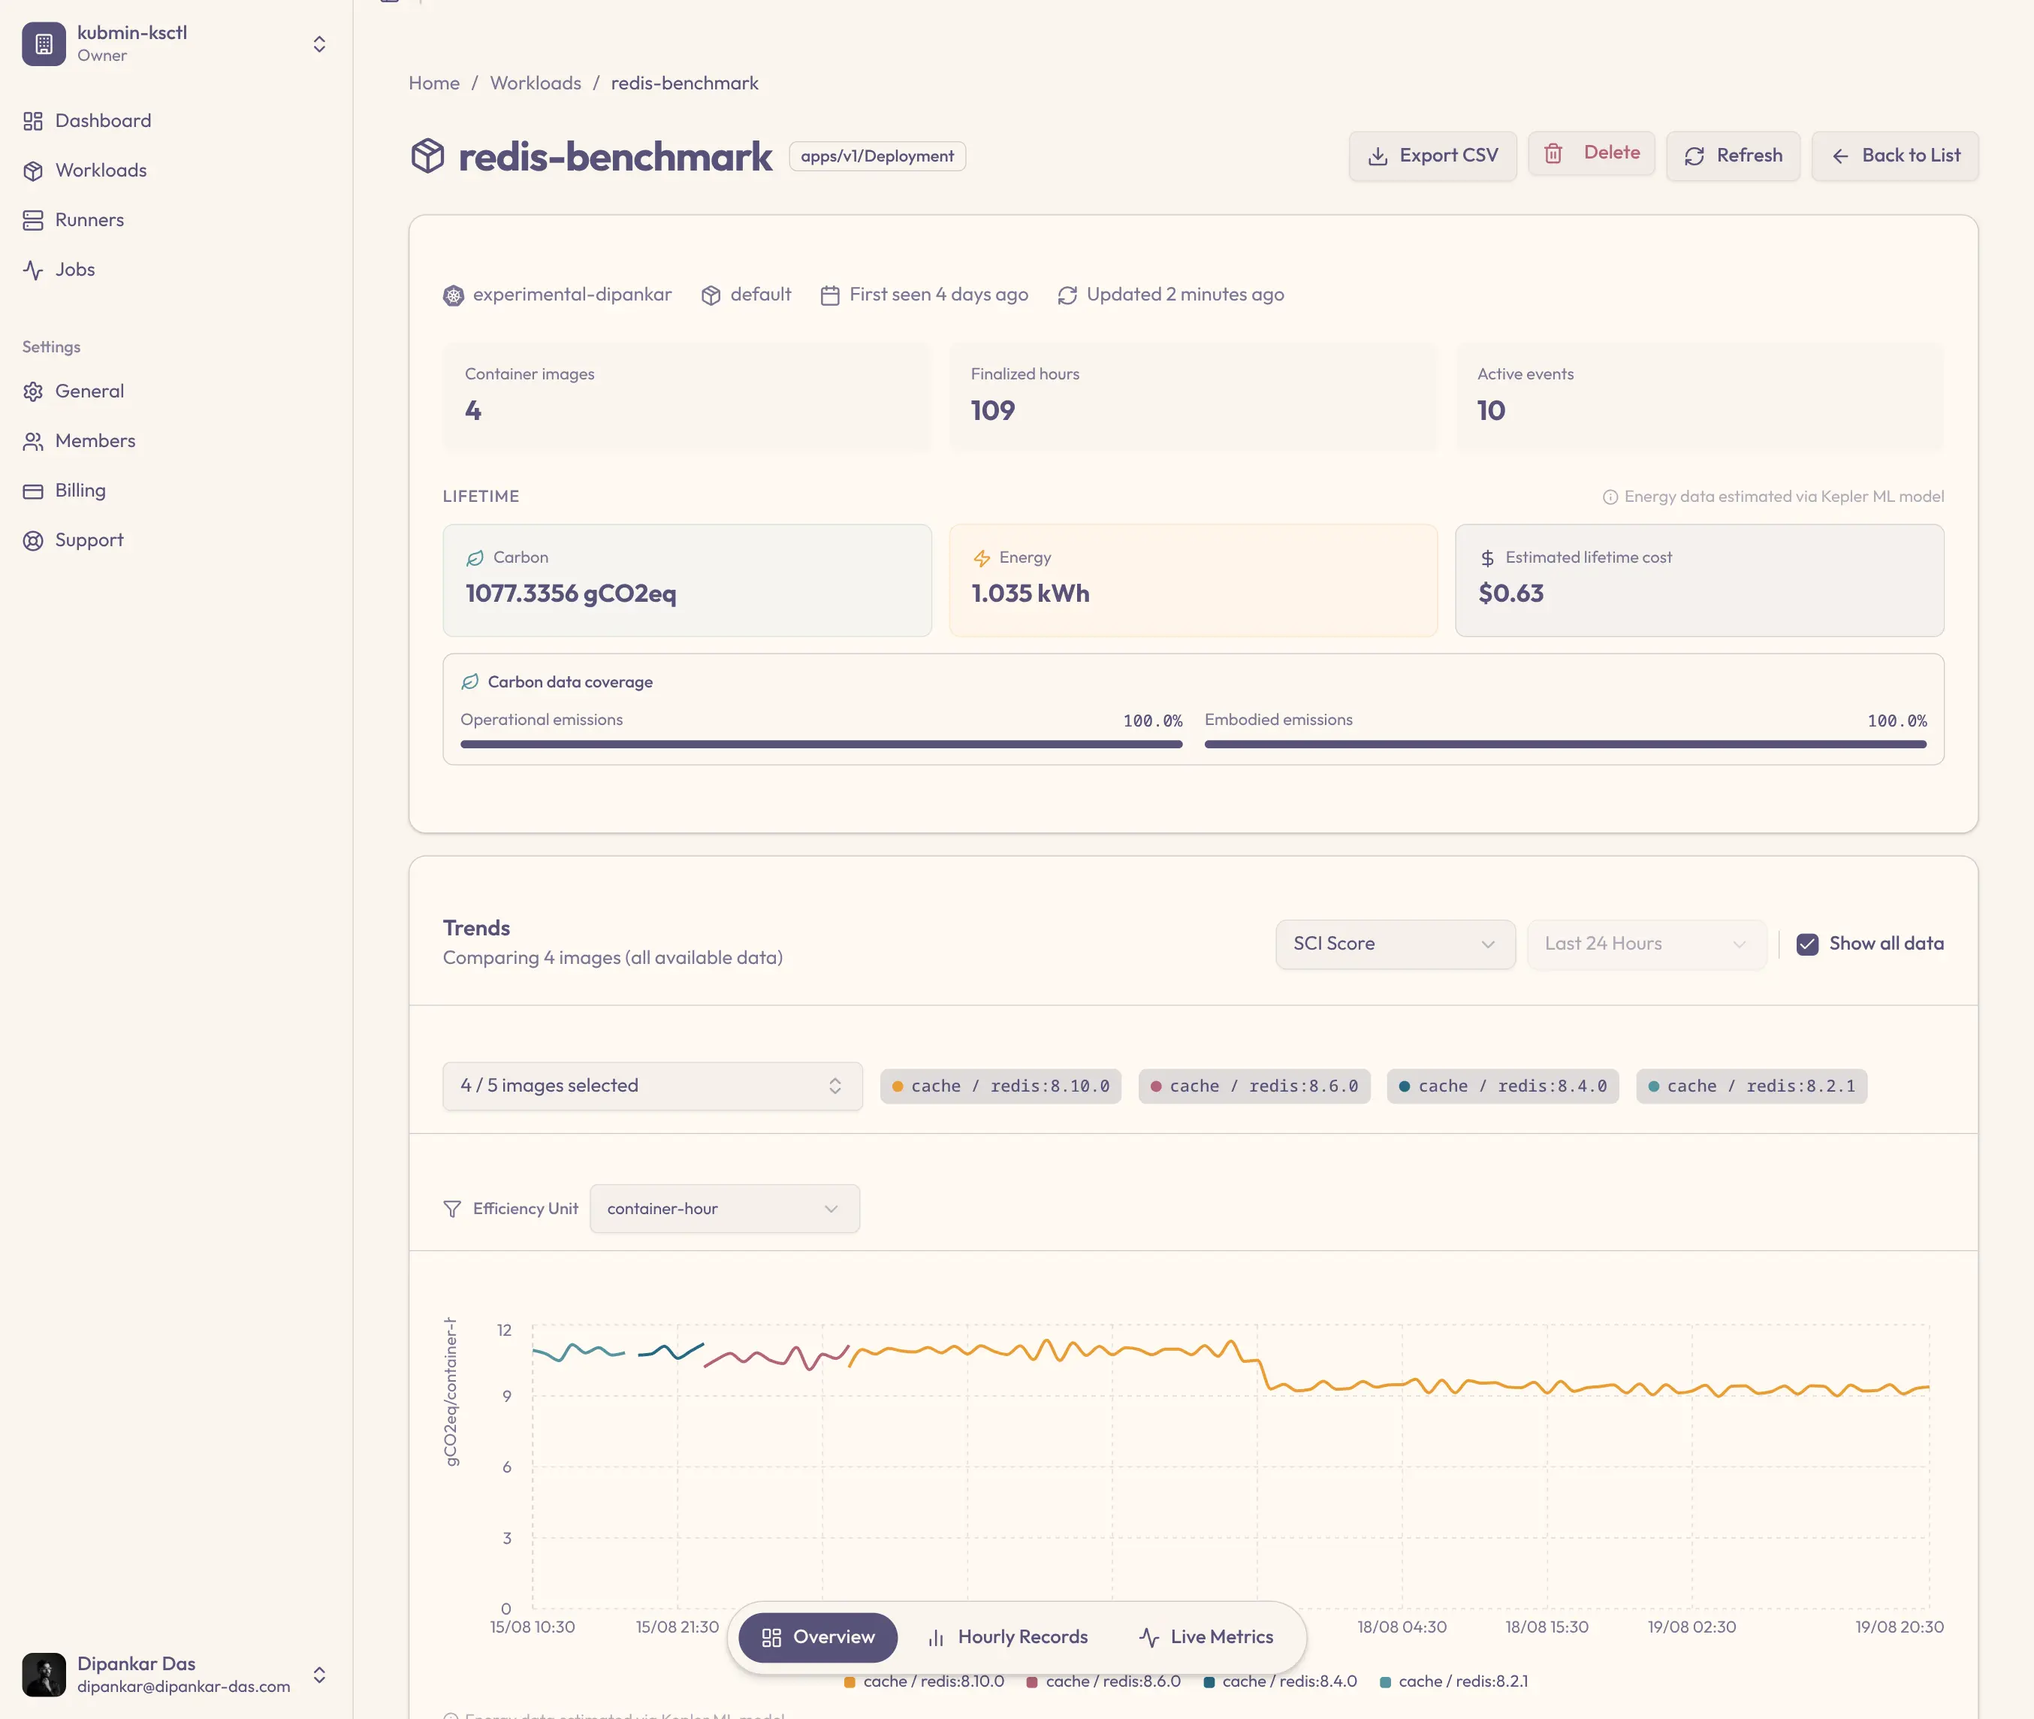
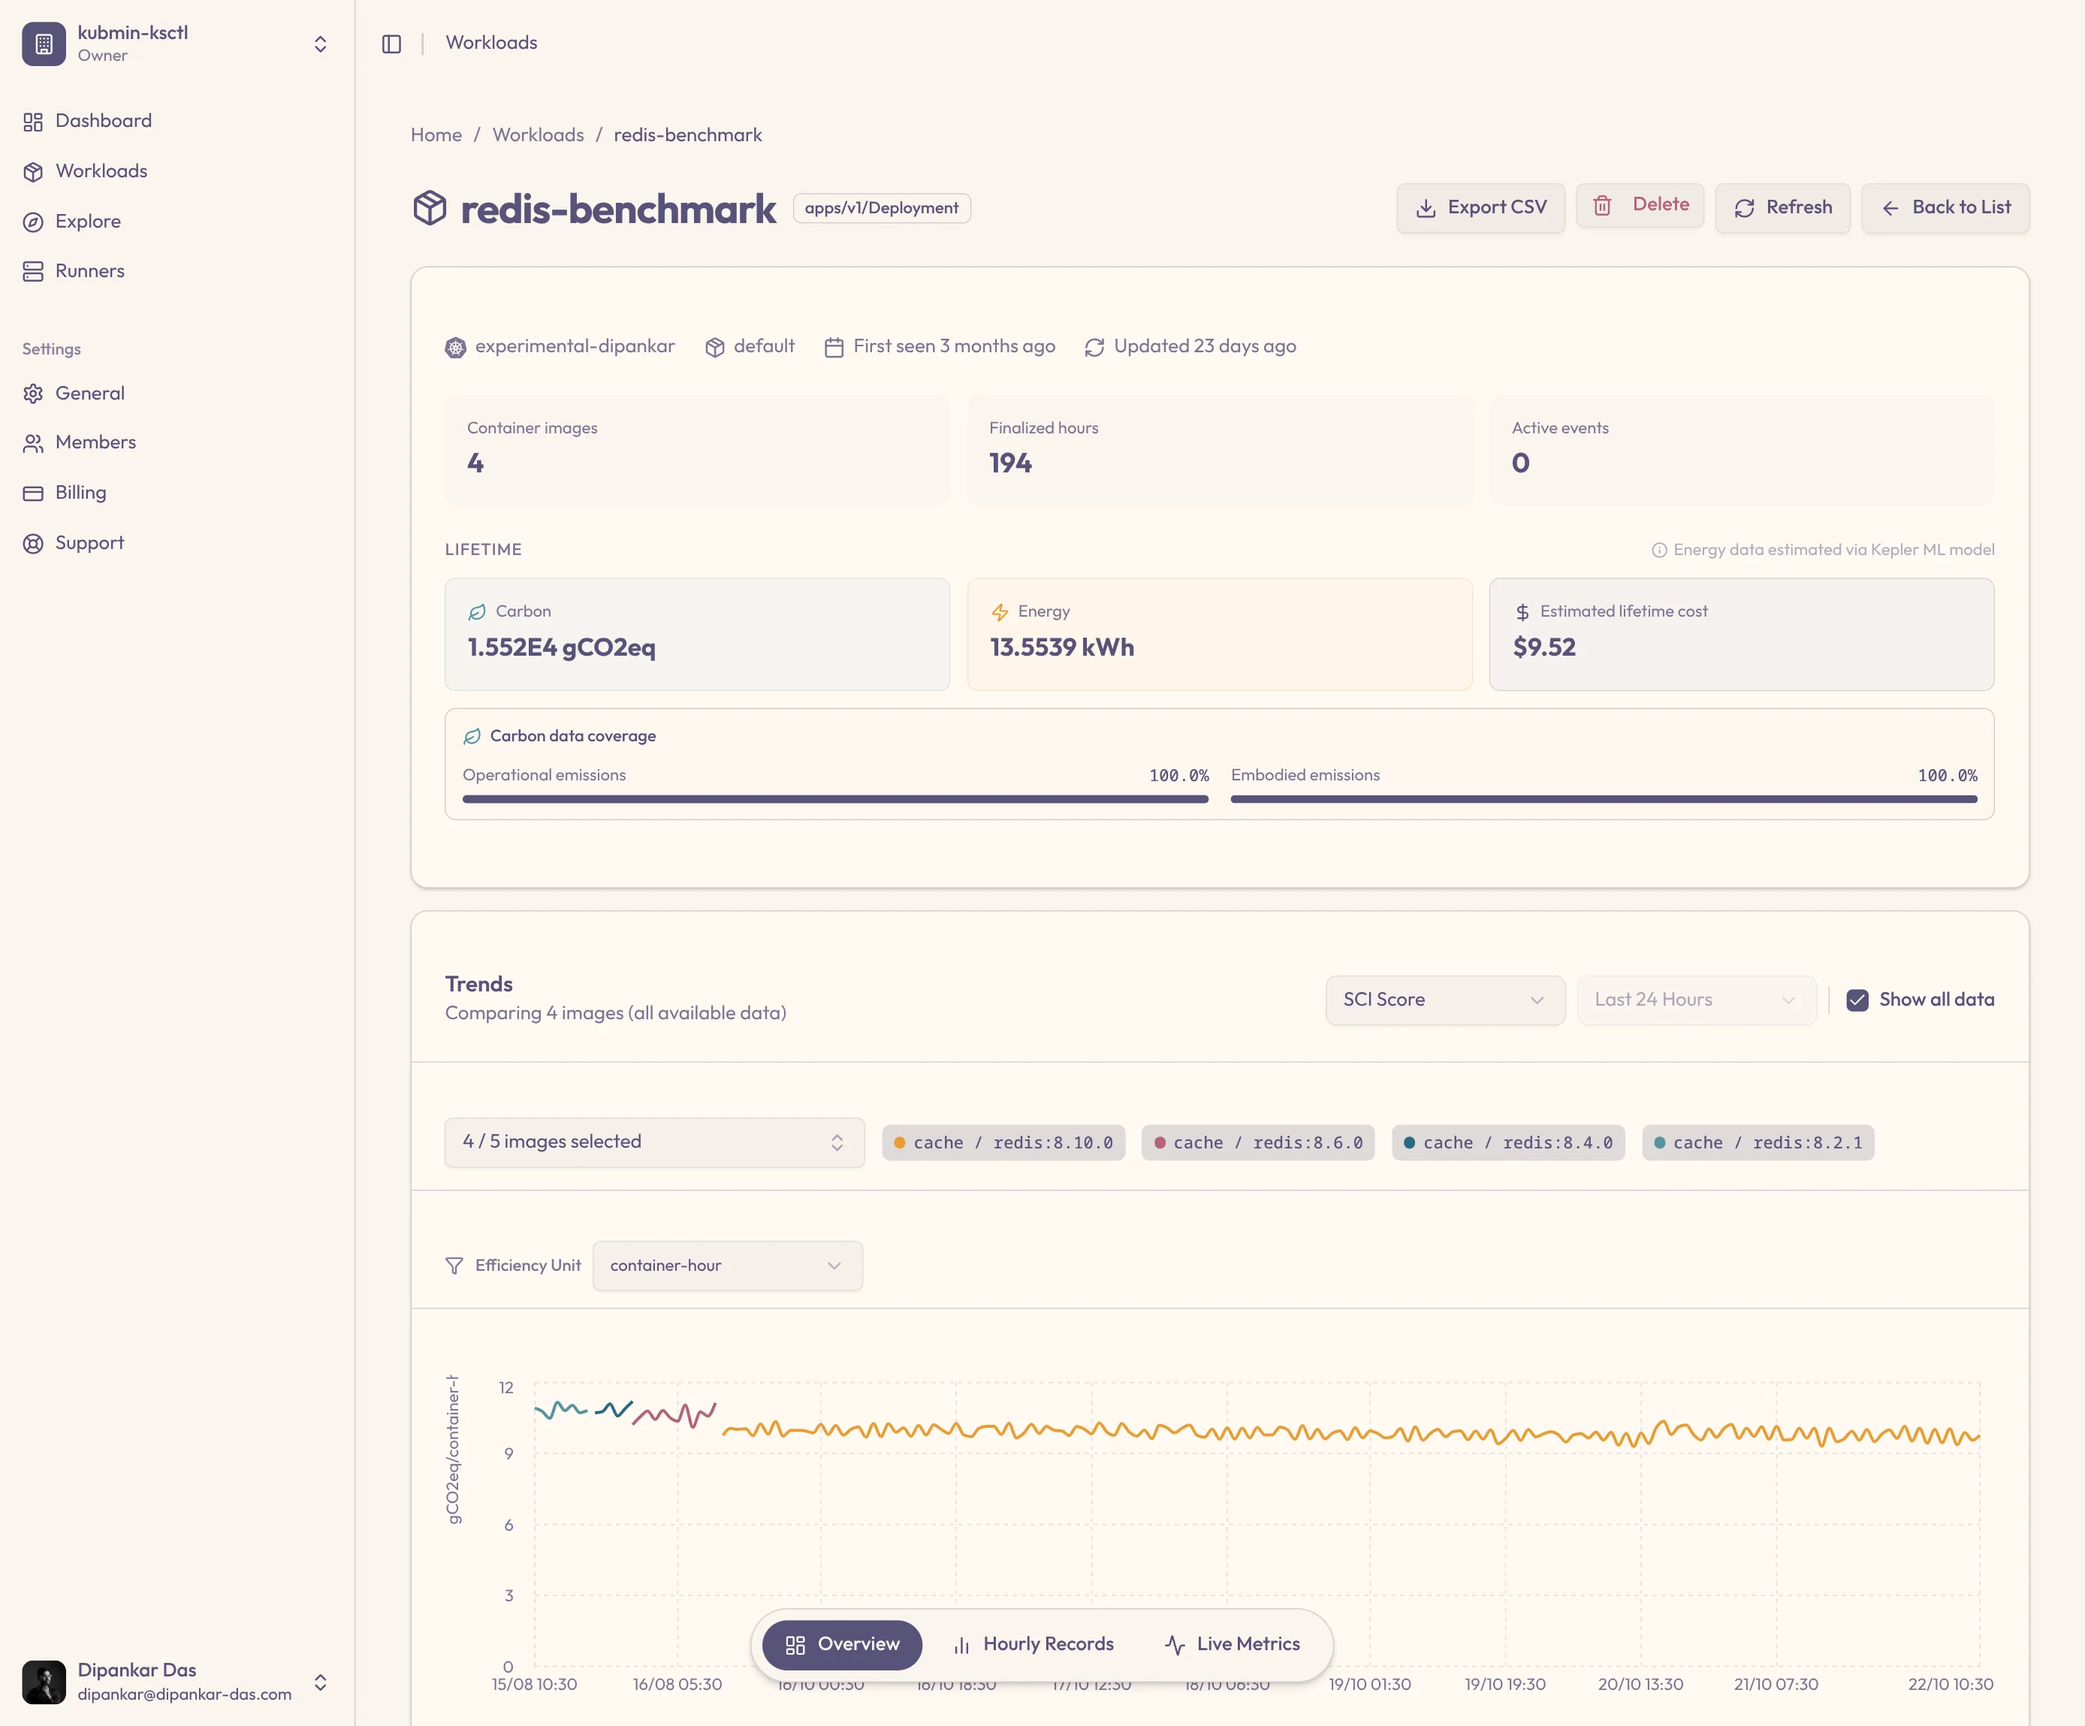
feat(kubmin): runner-based onboarding copy and Explore transparency section
Rename clusters to runners and describe the single helm-installed controller (no kubeconfig, no cloud credentials). Drop the ksctl open-source trust signal and cluster creation claims. Add the controller install screenshot, refresh the cover and guided observability screenshots, and add an Explore section with summary, region, and instance-type screenshots plus a data-sources FAQ.

diff --git a/src/data/kubmin.ts b/src/data/kubmin.ts
@@ -10,7 +10,6 @@ export const meta = {
 
 export const links = {
   app: "https://kubmin.ksctl.com",
-  github: "https://github.com/ksctl",
   discord: "https://discord.ksctl.com",
   kepler: "https://sustainable-computing.io/",
   gsf: "https://sci.greensoftware.foundation/",
@@ -233,9 +232,38 @@ export const coreFeatures = {
       glow: "primary",
       screenshot: {
         src: "/kubmin/guided-observability.webp",
-        alt: "Kubmin guided observability setup — connect existing backends or let Kubmin deploy the missing pieces",
-        browserUrl: "kubmin.ksctl.com/clusters/import/observability",
+        alt: "Kubmin add-cluster wizard — pick a distribution, then connect existing observability backends or let Kubmin deploy the missing pieces",
+        browserUrl: "kubmin.ksctl.com/kubernetes-cluster/import",
       },
+    },
+  ],
+};
+
+// ---- EXPLORE (transparency) ----
+export const explore = {
+  label: "interlude · ch. 02f · explore",
+  heading: "Transparency,",
+  headingAccent: "built in.",
+  intro:
+    "Explore opens the reference data behind Kubmin's carbon and placement math: grid carbon intensity, renewable share, data-centre PUE, and embodied emissions for every region and instance type. Each value carries its dataset, method, and year. No black-box scores.",
+  screenshots: [
+    {
+      src: "/kubmin/explore-summary.webp",
+      alt: "Kubmin Explore summary showing cleanest and median grid intensity, renewable share, and data-centre PUE",
+      browserUrl: "kubmin.ksctl.com/explore?tab=summary",
+      caption: "Summary · cleanest, median, renewable share, PUE",
+    },
+    {
+      src: "/kubmin/explore-region.webp",
+      alt: "Kubmin Explore regions tab listing cloud regions by grid carbon intensity and renewable share",
+      browserUrl: "kubmin.ksctl.com/explore?tab=regions",
+      caption: "Regions · where your runners run, and how every region of the same provider compares",
+    },
+    {
+      src: "/kubmin/explore-instance-type.webp",
+      alt: "Kubmin Explore instance types tab with embodied emissions and their source per instance type",
+      browserUrl: "kubmin.ksctl.com/explore?tab=instances",
+      caption: "Instance types · embodied emissions with source, method, and dataset year",
     },
   ],
 };
@@ -361,21 +389,26 @@ export const howItWorks = {
   headingAccent: "release intelligence",
   steps: [
     {
-      title: "Import a Kubernetes Cluster",
-      body: "Import EKS, AKS, GKE Standard, or self-managed Kubernetes.",
+      title: "Add a Kubernetes Cluster as a Runner",
+      body: "Pick EKS, AKS, GKE Standard, k3s, or kubeadm and run one helm command. It installs the Kubmin controller; Kubmin never needs your kubeconfig or cloud credentials.",
     },
     {
       title: "Choose Your Observability Path",
-      body: "Connect Prometheus, Tempo, Loki, and Grafana, or let Kubmin deploy what is missing. Kubmin adds its agent, Kepler, Gateway API, and OpenTelemetry Collector.",
+      body: "Connect Prometheus, Tempo, Loki, and Grafana, or let Kubmin deploy what is missing. The controller installs the Kubmin agent, Kepler, and OpenTelemetry Collector for you.",
     },
     {
       title: "Run a Release. See What Changed.",
       body: "Point your apps at Kubmin's in-cluster OTLP gRPC or HTTP endpoint. Kubmin compares image versions and ranks changes in estimated workload cost, energy, and resource efficiency.",
     },
   ],
+  screenshot: {
+    src: "/kubmin/controller-install.webp",
+    alt: "Kubmin runner page showing the single helm command that installs the Kubmin controller in your cluster",
+    browserUrl: "kubmin.ksctl.com/runners/detail",
+  },
   cta: { text: "Start Free", href: links.app },
   disclaimer:
-    "Imported clusters must have cert-manager installed and healthy. Kubmin installs Gateway API CRDs during import and configures the Kubmin agent, Kepler, and OpenTelemetry Collector automatically.",
+    "Runners currently support Kubernetes clusters with amd64 nodes. cert-manager must be installed and healthy; the Kubmin controller installs and upgrades everything else it needs.",
 };
 
 // ---- COMPARISON TABLE ----
@@ -434,7 +467,7 @@ export const comparisonTable = {
     },
     {
       capability: "Setup approach",
-      values: ["Connect billing scope", "Deploy/connect tooling", "Configure sources + queries", "✓ Import; collect runtime data"],
+      values: ["Connect billing scope", "Deploy/connect tooling", "Configure sources + queries", "✓ One helm command; no kubeconfig"],
     },
   ],
   footer:
@@ -455,7 +488,7 @@ export const pricing = {
       price: "$0",
       period: "/month",
       features: [
-        "1 cluster to create or import",
+        "1 runner (Kubernetes cluster)",
         "1 workload",
         "1 team member",
         "Guided Observability setup",
@@ -471,7 +504,7 @@ export const pricing = {
       price: "$20.00",
       period: "/month",
       features: [
-        "5 clusters to create or import",
+        "5 runners (Kubernetes clusters)",
         "5 workloads",
         "10 team members",
         "72h (3d) hourly metrics retention",
@@ -489,7 +522,7 @@ export const pricing = {
       price: "$50.00",
       period: "/month",
       features: [
-        "20 clusters to create or import",
+        "20 runners (Kubernetes clusters)",
         "20 workloads",
         "50 team members",
         "168h (7d) hourly metrics retention",
@@ -523,11 +556,6 @@ export const trustSignals = {
       body: "SCI-aligned carbon reporting with provisional SEI energy efficiency",
       href: links.gsf,
     },
-    {
-      title: "Open Source",
-      body: "Cluster management powered by ksctl — fully open source on GitHub",
-      href: links.github,
-    },
   ],
 };
 
@@ -559,16 +587,24 @@ Kubmin connects those views around the release: image-version comparisons, Keple
       a: "No. Kubmin is not a pre-deploy gate today. Label and annotate the workloads you want to track, then let the release run while Kubmin collects its runtime evidence. Keep your observability stack or let Kubmin deploy the missing pieces.",
     },
     {
+      q: "Where do Kubmin's numbers come from?",
+      a: "Grid carbon intensity comes from the Green Software Foundation dataset, with Electricity Maps LCA as a labelled fallback. Renewable share comes from Ember at country level, PUE from the cloud provider, and embodied emissions from Green Software Foundation / Cloud Carbon Footprint coefficients. Container energy comes from Kepler, and workload cost is Kubmin's runtime estimate. The Explore page shows the source, method, and dataset year beside each value.",
+      link: {
+        text: "See it in Explore",
+        href: "#explore",
+      },
+    },
+    {
       q: "How accurate are the energy measurements?",
       a: "Kepler uses hardware counters where available and models trained on hardware measurements elsewhere. Cloud readings are often estimates. Compare like-for-like workloads and infrastructure with the same sampling window and model; do not treat modeled energy as a meter reading.",
     },
     {
-      q: "What clusters does kubmin support?",
-      a: "Kubmin supports clusters created through ksctl and imported existing clusters. Managed import supports EKS, AKS, and GKE Standard. Self-managed import supports Kubernetes clusters on AWS, Azure, or Google Cloud via kubeconfig. GKE Autopilot is not included in the current import path.",
+      q: "What can Kubmin use as a runner?",
+      a: "A runner is where Kubmin collects runtime evidence. Kubmin currently supports Kubernetes clusters as runners: EKS, AKS, GKE Standard, k3s, and kubeadm, with amd64 nodes. You add one by running a single helm command that installs the Kubmin controller; Kubmin never asks for your kubeconfig or cloud credentials. GKE Autopilot is not supported today.",
     },
     {
-      q: "What does Kubmin install on imported clusters?",
-      a: "Imported clusters must already have cert-manager installed and healthy. During import, Kubmin installs Gateway API CRDs and configures the Kubmin agent, Kepler, and OpenTelemetry Collector. If you do not provide Prometheus, Tempo, Loki, or Grafana endpoints, Kubmin can deploy the missing observability backends for you.",
+      q: "What does the Kubmin controller install?",
+      a: "You install cert-manager and keep it healthy; Kubmin never touches it. The controller you install with helm then installs and upgrades everything else Kubmin needs: the Kubmin agent, Kepler, and the OpenTelemetry Collector. If you do not provide Prometheus, Tempo, Loki, or Grafana endpoints, it also deploys the missing observability backends.",
     },
   ],
 };
@@ -577,7 +613,7 @@ Kubmin connects those views around the release: image-version comparisons, Keple
 export const finalCta = {
   headlinePrefix: "Every release leaves a",
   headlineAccent: "runtime footprint.",
-  subtitle: "Connect a cluster. Run a release. See which image version raised estimated workload cost, energy, or waste.",
+  subtitle: "Add a cluster as a runner. Run a release. See which image version raised estimated workload cost, energy, or waste.",
   journeyNote: "Join us on this journey — the future of software is measured.",
   primaryAction: { text: "Get Started", href: links.app },
   secondaryAction: { text: "Join Discord", href: links.discord },
